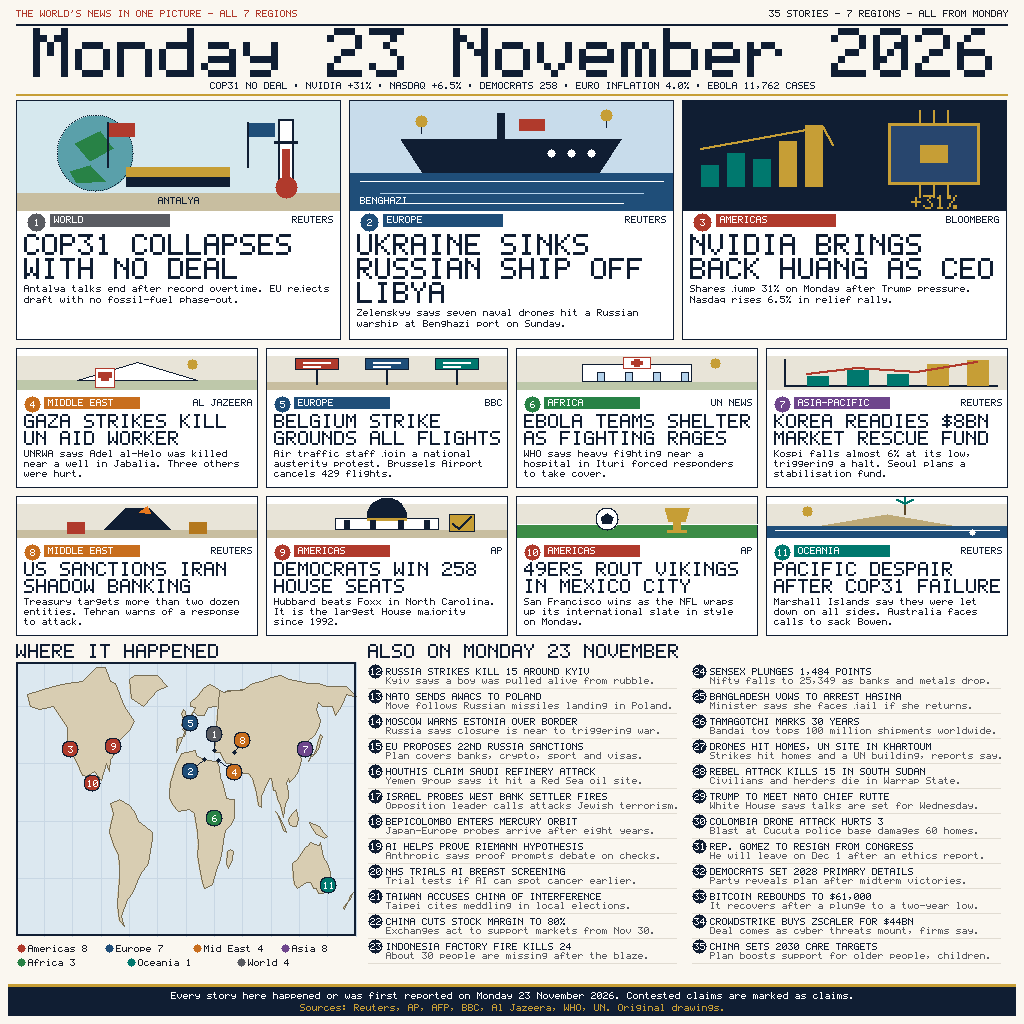
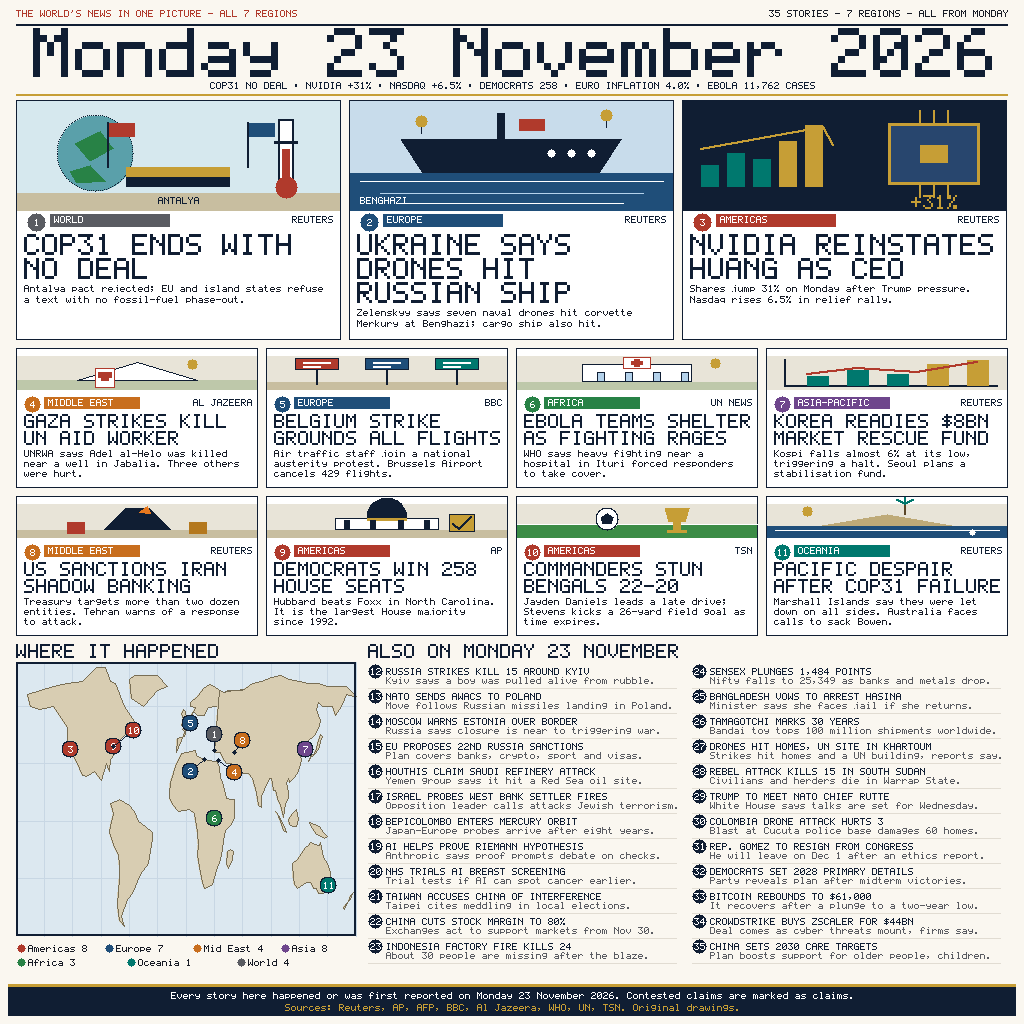
v3: Monday-verified wording - COP31 ends, Ukraine says drones hit ship, Nvidia reinstates Huang, Commanders stun Bengals

diff --git a/main.py b/main.py
@@ -272,7 +272,7 @@ PINS = [
     (7, 126.98, 37.57, 0, 0),
     (8, 51.39, 35.69, 8, -12),
     (9, -77.04, 38.9, 0, 0),
-    (10, -99.13, 19.43, 0, 0),
+    (10, -76.86, 38.93, 20, -16),
     (11, 151.21, -33.87, 0, 0),
 ]
 PIN_REGIONS = ["WORLD", "EUROPE", "AMERICAS", "MIDDLE EAST", "EUROPE",
@@ -444,16 +444,21 @@ def draw_hero(cv, x, y, w, h, kind):
             cv.draw_line(chip_x + 46 + dx, chip_y + 62, chip_x + 46 + dx, chip_y + 74, GOLD, 2)
         cv.draw_text(x + w - 72, y + h - 16, "+31%", 2, GOLD, align="center")
 
-# ---- Data: EXACTLY the 35 v1 stories, no Rank 1 (17 Nov) stories ----
+# ---- Data: 35 stories; v3 (24 Nov) revises #1-3 and #10 to Monday-verified wording ----
+# #1 COP31: pact rejected in Antalya, reported/analysed Monday 23 Nov (CNN/Le Monde dated
+# the collapse Sunday 22 Nov; Monday briefing + fallout are the Monday news).
+# #2 Ukraine: attack claimed by Zelenskyy on Monday 23 Nov (CNN/AP/WSJ).
+# #3 Nvidia: reinstated by the board Monday 23 Nov, shares +31.48% (Reuters, 23 Nov).
+# #10 Commanders-Bengals: Monday Night Football, 23 Nov, 22-20 (TSN, 23 Nov 23:33 EST).
 FEATURES = [
     (1, "WORLD", "Reuters", "summit",
-     "COP31 COLLAPSES WITH NO DEAL",
-     "Antalya talks end after record overtime. EU rejects draft with no fossil-fuel phase-out."),
+     "COP31 ENDS WITH NO DEAL",
+     "Antalya pact rejected; EU and island states refuse a text with no fossil-fuel phase-out."),
     (2, "EUROPE", "Reuters", "naval",
-     "UKRAINE SINKS RUSSIAN SHIP OFF LIBYA",
-     "Zelenskyy says seven naval drones hit a Russian warship at Benghazi port on Sunday."),
-    (3, "AMERICAS", "Bloomberg", "tech",
-     "NVIDIA BRINGS BACK HUANG AS CEO",
+     "UKRAINE SAYS DRONES HIT RUSSIAN SHIP",
+     "Zelenskyy says seven naval drones hit corvette Merkury at Benghazi; cargo ship also hit."),
+    (3, "AMERICAS", "Reuters", "tech",
+     "NVIDIA REINSTATES HUANG AS CEO",
      "Shares jump 31% on Monday after Trump pressure. Nasdaq rises 6.5% in relief rally."),
     (4, "MIDDLE EAST", "Al Jazeera", "health",
      "GAZA STRIKES KILL UN AID WORKER",
@@ -473,9 +478,9 @@ FEATURES = [
     (9, "AMERICAS", "AP", "elections",
      "DEMOCRATS WIN 258 HOUSE SEATS",
      "Hubbard beats Foxx in North Carolina. It is the largest House majority since 1992."),
-    (10, "AMERICAS", "AP", "sports",
-     "49ERS ROUT VIKINGS IN MEXICO CITY",
-     "San Francisco wins as the NFL wraps up its international slate in style on Monday."),
+    (10, "AMERICAS", "TSN", "sports",
+     "COMMANDERS STUN BENGALS 22-20",
+     "Jayden Daniels leads a late drive; Stevens kicks a 26-yard field goal as time expires."),
     (11, "OCEANIA", "Reuters", "climate",
      "PACIFIC DESPAIR AFTER COP31 FAILURE",
      "Marshall Islands say they were let down on all sides. Australia faces calls to sack Bowen."),
@@ -615,7 +620,7 @@ def build():
     cv.fill_rect(8, 984, 1008, 32, NAVY)
     cv.fill_rect(8, 984, 1008, 3, GOLD)
     cv.draw_text(512, 992, "Every story here happened or was first reported on Monday 23 November 2026. Contested claims are marked as claims.", 1, WHITE, align="center")
-    cv.draw_text(512, 1004, "Sources: Reuters, AP, AFP, BBC, Al Jazeera, WHO, UN. Original drawings.", 1, GOLD, align="center")
+    cv.draw_text(512, 1004, "Sources: Reuters, AP, AFP, BBC, Al Jazeera, WHO, UN, TSN. Original drawings.", 1, GOLD, align="center")
     return cv
 
 def main():

diff --git a/README.md b/README.md
@@ -125,16 +125,16 @@ carries its outlet or official source in the image (`Zelenskyy says…`,
 
 | # | Story | Source |
 |---|---|---|
-| 1 | COP31 collapses in Antalya with no deal — record overtime, EU rejects a draft with no fossil-fuel phase-out. Talks ended Sunday 22 Nov, reported Monday 23 Nov. | CNN, NHK, Al Jazeera, Reuters |
-| 2 | Ukraine sinks a Russian warship at Benghazi, Libya — Zelenskyy says seven naval drones hit it on Sunday. | Reuters, Japan Times |
-| 3 | Nvidia reinstates Jensen Huang as CEO — shares jump 31% on Monday after Trump pressure; Nasdaq +6.5%. | Reuters (Trading Day), Bloomberg, Daily Mirror |
+| 1 | COP31 ends with no deal — Antalya pact rejected; EU and island states refuse a text with no fossil-fuel phase-out. Collapse was Sunday 22 Nov; Monday 23 Nov is when it led the news cycle (CNN, Le Monde, Atlantic Council analysis 23 Nov). | CNN, Le Monde, Atlantic Council, Carbon Brief |
+| 2 | Ukraine says drones hit a Russian warship at Benghazi, Libya — Zelenskyy says seven naval drones hit corvette Merkury on Monday; cargo ship MV Angara also hit. | Reuters, CNN, AP, WSJ |
+| 3 | Nvidia reinstates Jensen Huang as CEO — board announces it Monday 23 Nov; shares jump 31.48% on Monday; Nasdaq +6.5%. | Reuters (23 Nov), Motley Fool |
 | 4 | Israeli strikes in Gaza kill UNRWA worker Adel al-Helo near a well in Jabalia; three others hurt. | Reuters, Al Jazeera, WAFA |
 | 5 | Belgium's national austerity strike grounds all flights — Brussels Airport cancels 429 flights, 07:00–21:00. | BBC, QNC News |
 | 6 | Heavy fighting near a hospital in Ituri, DR Congo, forces Ebola responders to shelter for over 24 hours. | UN News / WHO |
 | 7 | South Korea readies an ~$8bn (10.8tn won) market stabilisation fund after the Kospi falls almost 6% at its low. | Reuters, InvestingLive |
 | 8 | US Treasury sanctions more than two dozen Iranian entities over "shadow banking"; Tehran warns of a response. | US Treasury via The Brief / Reuters |
 | 9 | Democrats win 258 US House seats — Hubbard beats Foxx in North Carolina; largest House majority since 1992. | AP / CBS via Khaleej Times, Al Jazeera |
-| 10 | 49ers rout the Vikings in Mexico City as the NFL wraps up its international slate. | Japan Times |
+| 10 | Commanders stun Bengals 22-20 on Monday Night Football — Jayden Daniels leads a late drive; Drew Stevens kicks a 26-yard field goal as time expires. | TSN, Cincinnati Bengals |
 | 11 | Pacific despair after the COP31 failure — Marshall Islands say they were "let down on all sides"; Australia faces calls to sack minister Chris Bowen. | Reuters via Japan Times / GMA |
 
 ### Digest — stories 12–35
@@ -181,6 +181,32 @@ carries its outlet or official source in the image (`Zelenskyy says…`,
    released 20 Nov, reported by UN News / WHO on 23 Nov.
 6. **Brent crude: $91.94/barrel**, down 0.68% on the day. (Hindu BusinessLine,
    23 Nov close)
+
+## Verification performed (v3 — 24 Nov evening, before submission)
+
+- v3 revises four stories after a fresh web search on 23 Nov reporting:
+  #1 COP31 reworded to "COP31 ENDS WITH NO DEAL" (collapse was Sunday 22 Nov per
+  CNN/Le Monde; Monday 23 Nov briefing and fallout are the Monday news);
+  #2 reworded to the attributed claim "UKRAINE SAYS DRONES HIT RUSSIAN SHIP",
+  "Sunday" removed (Zelenskyy announced it Monday 23 Nov, CNN/AP/WSJ);
+  #3 kept — verified real Monday 23 Nov: Reuters 23 Nov "Nvidia reinstates Jensen
+  Huang as CEO", shares +31.48%, Nasdaq +6.5%; headline reworded to "NVIDIA
+  REINSTATES HUANG AS CEO"; #10 49ers (Sunday-night game, 22 Nov) replaced by
+  verified Monday-night game Commanders 22-20 Bengals, 23 Nov (TSN), pin moved
+  from Mexico City to Northwest Stadium, Maryland, with a leader offset so it
+  does not collide with pin 9 (Washington DC); min pin distance 25.6 px.
+- Ran `python3 -P -s main.py` three times: all wrote `output/entry.png`,
+  **47,563 bytes, 1024×1024, SHA-256
[1 lines of base64/hex data omitted]
+  byte-identical**. Text-fit check (same wrap function as the renderer): hero
+  headlines ≤3 lines, hero summaries ≤2 lines, medium headlines ≤3 lines,
+  medium summaries ≤3 lines, digest headlines ≤221 px and details ≤293 px in a
+  316 px column, title 959 px in 992 px, KPI 605 px. No `...` truncation, no
+  clipping found on visual inspection at full size.
+- Honest limit on the visual-polish ask: true anti-aliasing is not possible in
+  this pure-stdlib renderer — there is no font engine, only a hand-built 5×7
+  bitmap font and flat vector shapes, so the type stays chunky pixel by design.
+  No AA was faked; the polish done is the verified no-clipping check above.
 
 ## Verification performed (v2)
 
